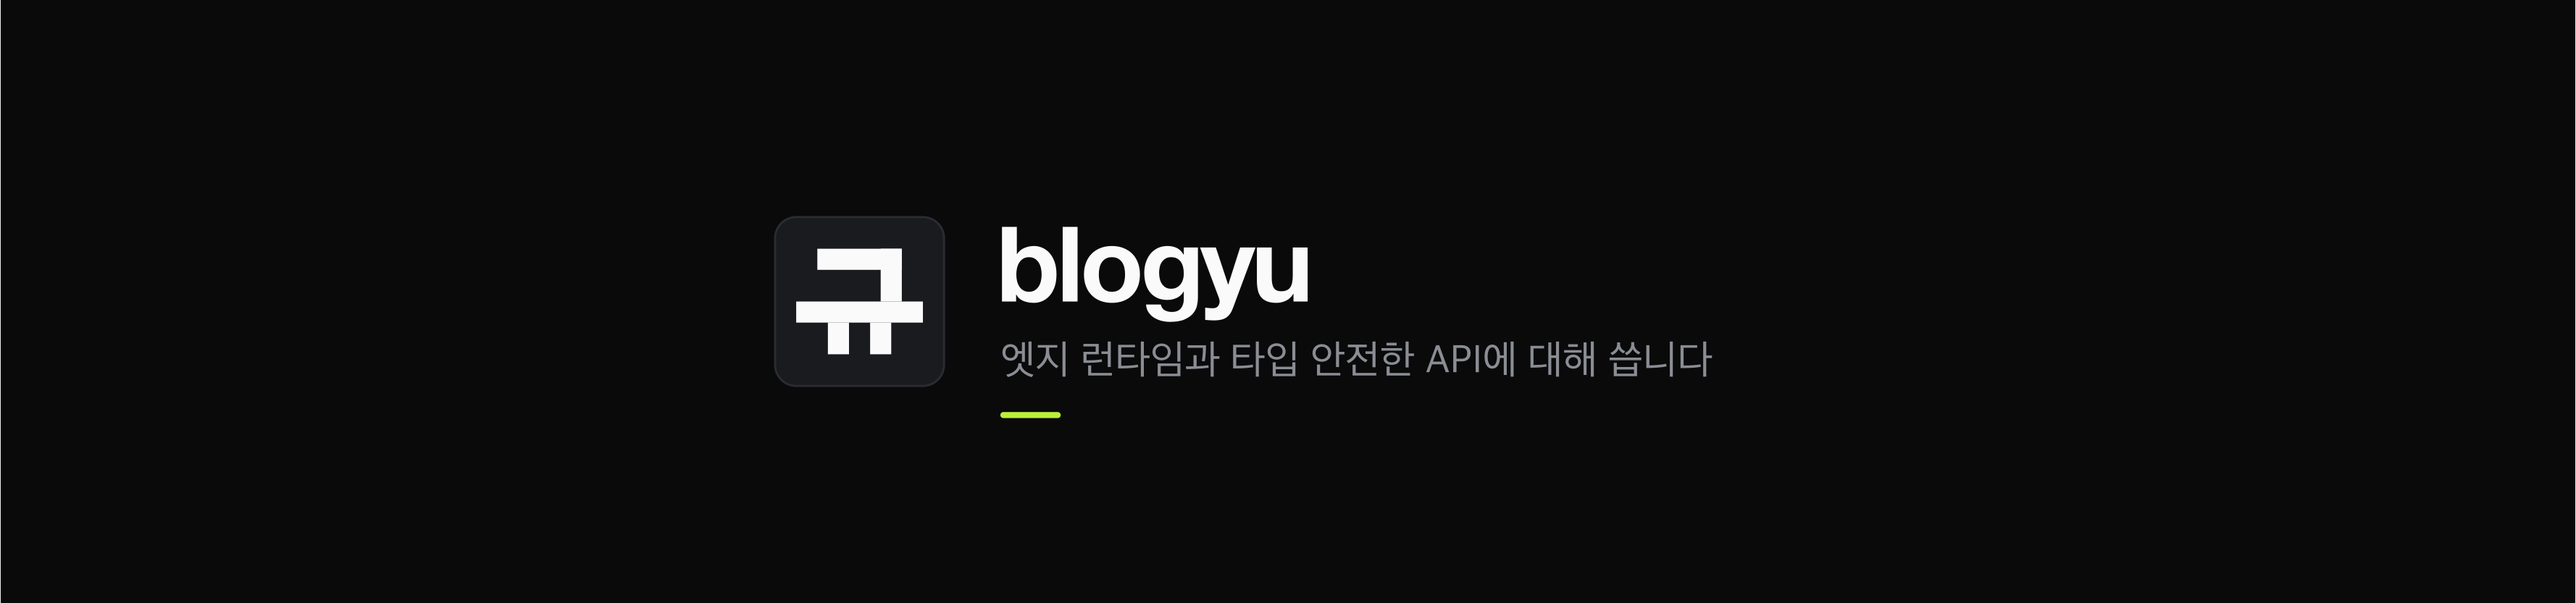
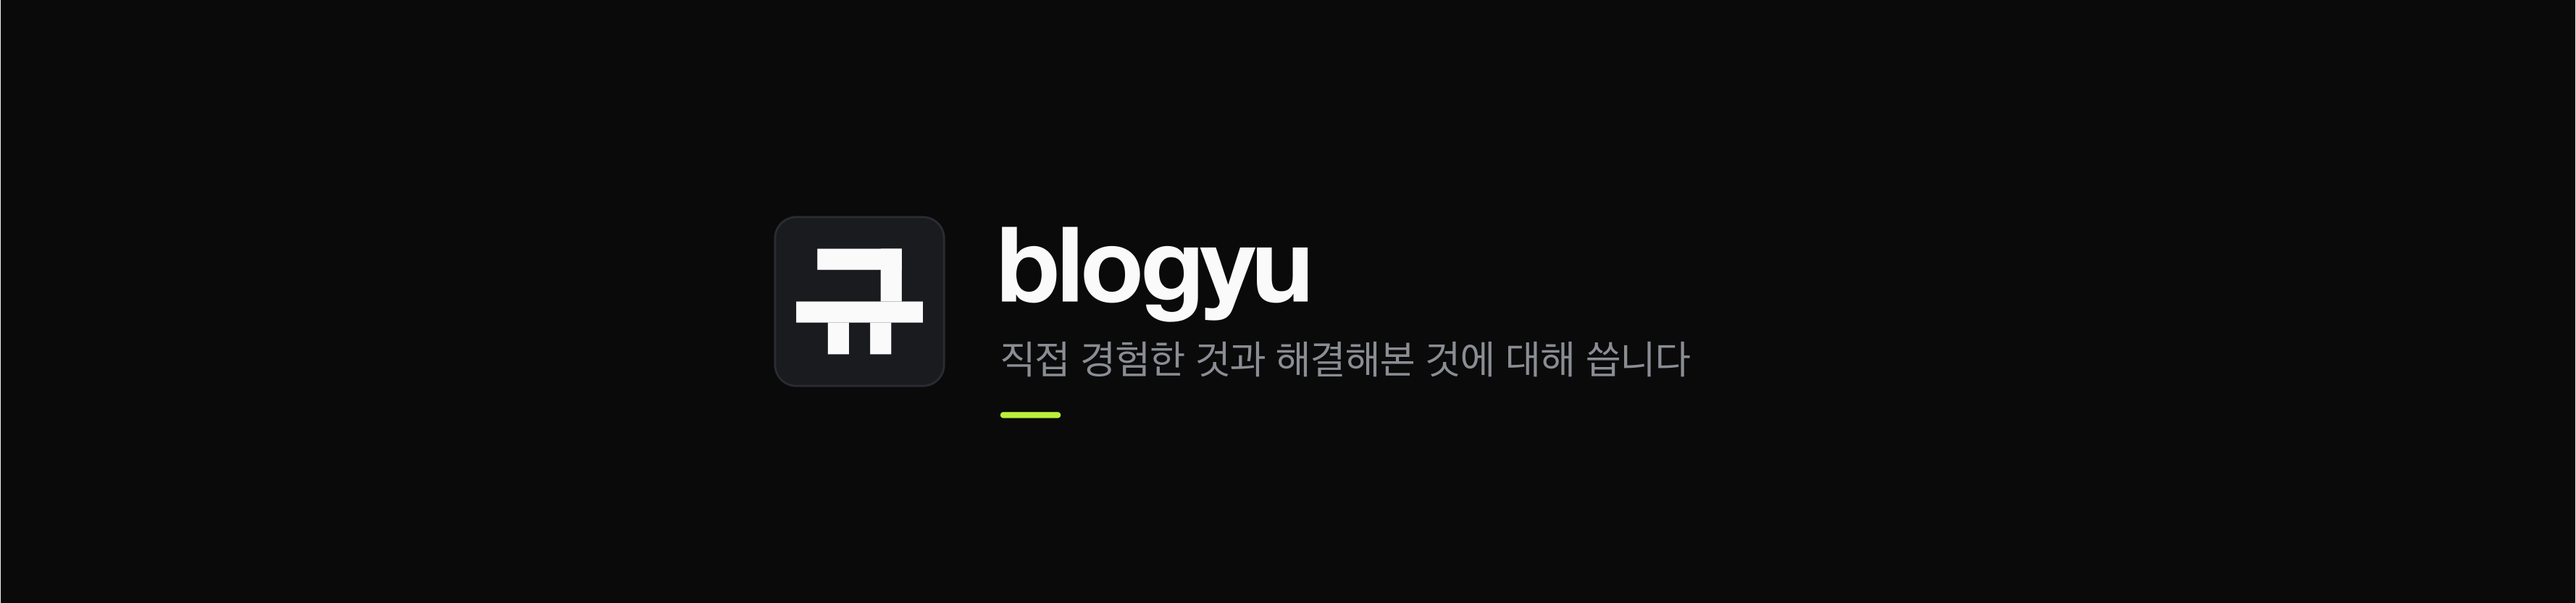
[DOCS] 블로그 소개 문구를 바꿈
"엣지 런타임과 타입 안전한 API에 대해 씁니다"
  → "직접 경험한 것과 해결해본 것에 대해 씁니다"

같은 문장이 다섯 곳에 흩어져 있어 함께 고쳤다. 한 곳만 바꾸면
사이드바와 OG 카드·RSS 의 소개가 서로 달라진다.

  sidebar.tsx            화면 좌측
  layout.tsx             meta description
  opengraph-image.tsx    OG 카드
  feed.xml/route.ts      RSS 채널 설명
  docs/design/*.html     UI 시안

README 배너는 문구가 이미지에 그려져 있어 다시 렌더했다.

Claude-Session: https://claude.ai/code/session_01Bqxgt5ij7pidWyv7W6KZXq

Changed region(s): [[0.3746, 0.5618, 0.6555, 0.6242]]

diff --git a/docs/design/blogyu-ui.html b/docs/design/blogyu-ui.html
@@ -1006,7 +1006,7 @@ body[data-screen="post"] #tocBlock { display: block; }
   <aside class="side">
     <a class="brand" href="#" data-go="home">
       <span class="brand__name"><span class="brand__dot"></span>blogyu</span>
-      <span class="brand__desc">엣지 런타임과 타입 안전한 API에 대해 씁니다. 대체로 실패한 이야기.</span>
+      <span class="brand__desc">직접 경험한 것과 해결해본 것에 대해 씁니다. 대체로 실패한 이야기.</span>
     </a>
 
     <!-- 시그니처 ① 목차 — 글 상세에서만 -->

diff --git a/apps/web/src/app/opengraph-image.tsx b/apps/web/src/app/opengraph-image.tsx
@@ -28,7 +28,7 @@ export default async function Image() {
         <div style={{ fontSize: 64, color: OG.fg, letterSpacing: -2 }}>blogyu</div>
       </div>
       <div style={{ marginTop: 24, fontSize: 32, color: OG.fgMuted, lineHeight: 1.5 }}>
-        엣지 런타임과 타입 안전한 API에 대해 씁니다.
+        직접 경험한 것과 해결해본 것에 대해 씁니다.
       </div>
     </div>,
     { ...size, fonts: [{ name: 'Pretendard', data: font, weight: 700, style: 'normal' }] },

diff --git a/apps/web/src/components/sidebar.tsx b/apps/web/src/components/sidebar.tsx
@@ -39,7 +39,7 @@ export async function Sidebar({ toc }: { toc?: ReactNode }) {
           blogyu
         </span>
         <span className="mt-2 block text-[0.8125rem] text-fg-muted leading-relaxed">
-          엣지 런타임과 타입 안전한 API에 대해 씁니다. 대체로 실패한 이야기.
+          직접 경험한 것과 해결해본 것에 대해 씁니다. 대체로 실패한 이야기.
         </span>
       </Link>
 

diff --git a/apps/web/src/app/feed.xml/route.ts b/apps/web/src/app/feed.xml/route.ts
@@ -27,7 +27,7 @@ export async function GET() {
   <channel>
     <title>blogyu</title>
     <link>${SITE_URL}</link>
-    <description>엣지 런타임과 타입 안전한 API에 대해 씁니다.</description>
+    <description>직접 경험한 것과 해결해본 것에 대해 씁니다.</description>
     <language>ko</language>
     <atom:link href="${SITE_URL}/feed.xml" rel="self" type="application/rss+xml" />
 ${items

diff --git a/apps/web/src/app/layout.tsx b/apps/web/src/app/layout.tsx
@@ -10,7 +10,7 @@ export const metadata: Metadata = {
     default: 'blogyu',
     template: '%s · blogyu',
   },
-  description: '엣지 런타임과 타입 안전한 API에 대해 씁니다. 대체로 실패한 이야기.',
+  description: '직접 경험한 것과 해결해본 것에 대해 씁니다. 대체로 실패한 이야기.',
   openGraph: {
     type: 'website',
     siteName: 'blogyu',
